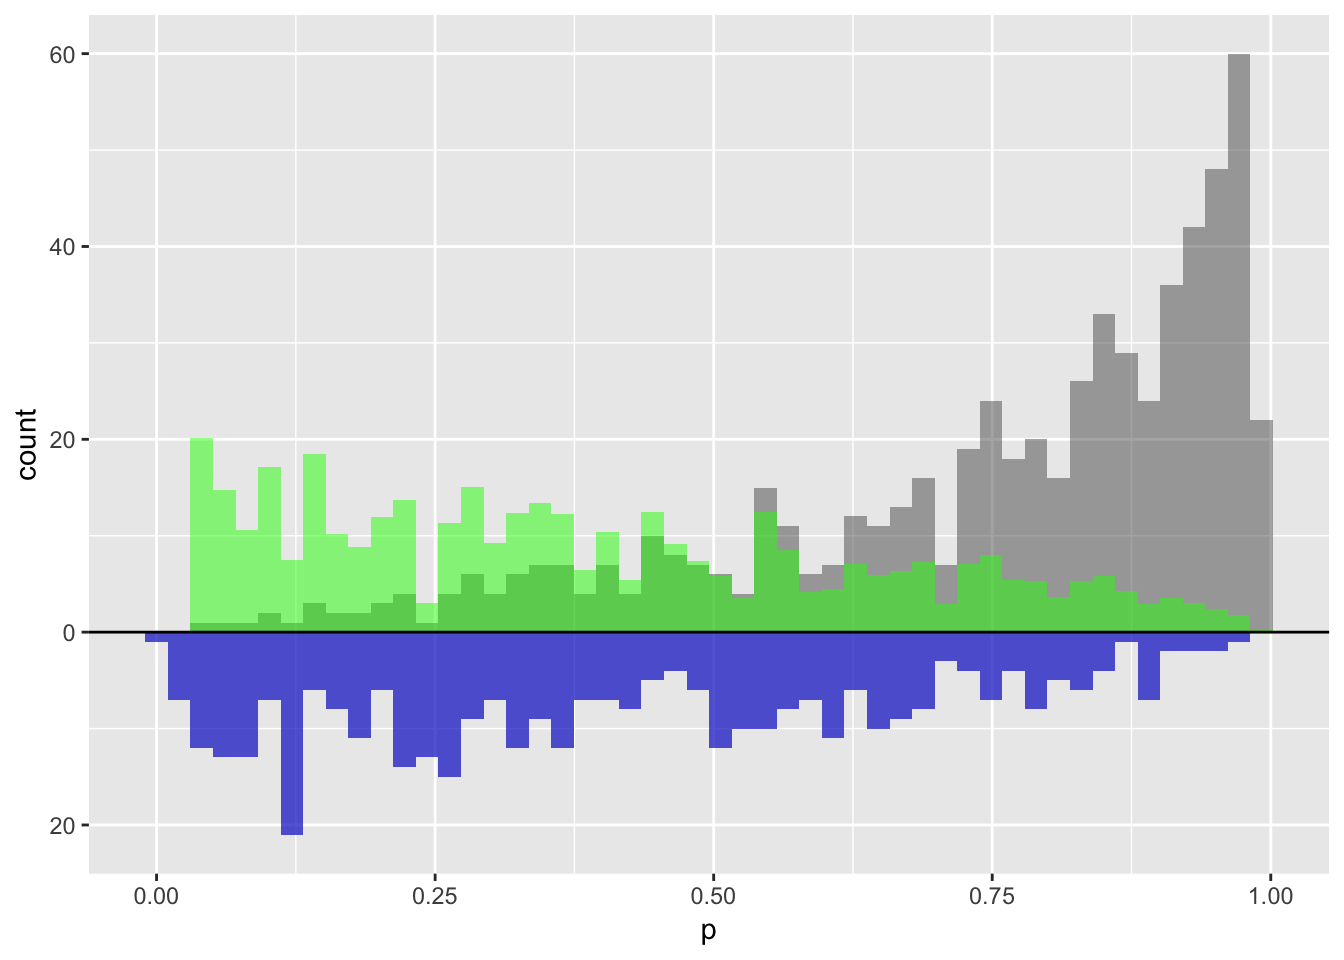
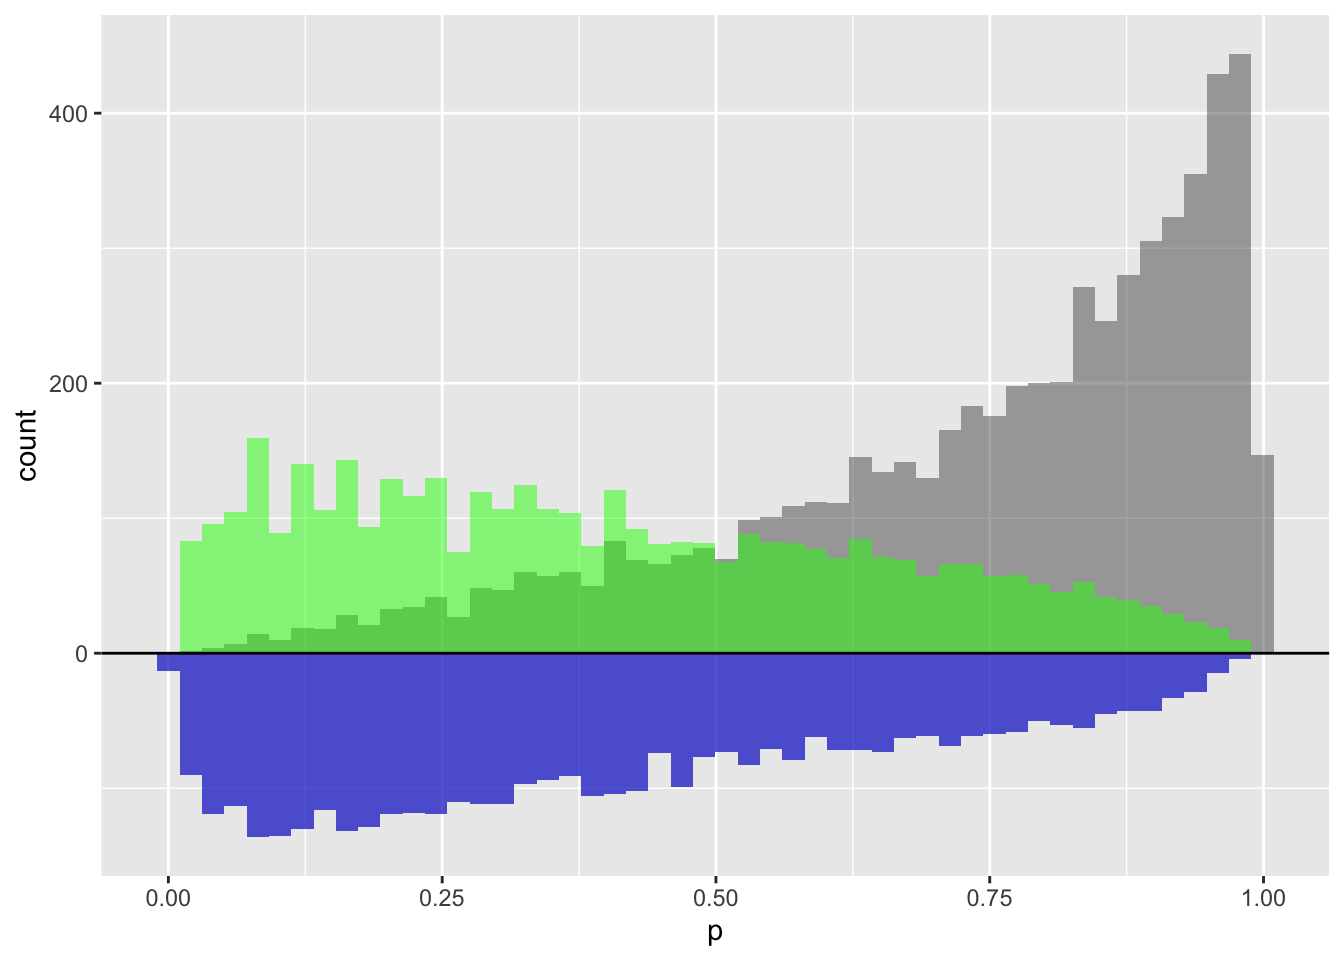
fix silly confounding mistake

diff --git a/content/post/2019-01-17-understanding-propensity-score-weighting.html b/content/post/2019-01-17-understanding-propensity-score-weighting.html
@@ -8,6 +8,7 @@ tags: ["propensity scores", "causal inference"]
 excerpt: "Come enjoy a graphical exploration of various propensity score weighting schemes."
 ---
 
+<script src="/rmarkdown-libs/header-attrs/header-attrs.js"></script>
 
 
 <div id="lets-create-a-toy-dataset" class="section level2">
@@ -15,7 +16,7 @@ excerpt: "Come enjoy a graphical exploration of various propensity score weighti
 <p>For this post, I’m going to use this generated dataset as an example. <label for="tufte-mn-" class="margin-toggle">⊕</label><input type="checkbox" id="tufte-mn-" class="margin-toggle"><span class="marginnote">Here I am using the terminology ‘treatment’ for consistency, but these methods are not confined to the medical setting. You can also think of this as an ‘exposure’. For example, you could be interested in how ‘exposing’ users to a certain UI effects an outcome, like whether they purchase a product.</span> Here, I am simulating two variables, <span class="math inline">\(x_1\)</span> and <span class="math inline">\(x_2\)</span>. These are my <em>pre-treatment characteristics</em> (we’ll define that soon!). I am then using these to create a binary <code>treatment</code> variable. This <code>treatment</code> variable depends on <code>x_1</code> and <code>x_2</code>. Finally, I have generated an <code>outcome</code> variable dependent on the <code>treatment</code>, making the treatment effect equal to 2.</p>
 <pre class="r"><code>library(tidyverse)
 set.seed(928)
-n &lt;- 1000
+n &lt;- 10000
 X &lt;- mvtnorm::rmvnorm(n,
                       mean = c(0.5, 1),
                       sigma = matrix(c(2, 1, 1, 1), ncol = 2)
@@ -25,23 +26,23 @@ dat &lt;- tibble(
   x_1 = X[, 1],
   x_2 = X[, 2],
   treatment = as.numeric(- 0.5 + 0.25 * x_1 + 0.75 * x_2 + rnorm(n, 0, 1) &gt; 0),
-  outcome = 2 * treatment + rnorm(n, 0, 1)
+  outcome = 2 * treatment + x_1 + x_2 + rnorm(n, 0, 1)
 )
 dat</code></pre>
-<pre><code>## # A tibble: 1,000 x 4
+<pre><code>## # A tibble: 10,000 × 4
 ##       x_1    x_2 treatment outcome
 ##     &lt;dbl&gt;  &lt;dbl&gt;     &lt;dbl&gt;   &lt;dbl&gt;
-##  1 -0.554  1.57          1  2.65  
-##  2 -0.154  0.949         0  0.0561
-##  3  0.138  2.42          1  1.83  
-##  4  0.668  1.36          0 -0.845 
-##  5  3.11   2.76          1  1.46  
-##  6 -0.151  0.683         0 -0.0211
-##  7  1.01  -0.414         0  0.317 
-##  8 -0.114  0.856         1  3.35  
-##  9  2.66   1.23          1  2.41  
-## 10  2.96   2.53          1  2.73  
-## # ... with 990 more rows</code></pre>
+##  1 -0.554  1.57          0   0.832
+##  2 -0.154  0.949         1   2.68 
+##  3  0.138  2.42          1   5.12 
+##  4  0.668  1.36          1   4.27 
+##  5  3.11   2.76          1   7.87 
+##  6 -0.151  0.683         0  -0.260
+##  7  1.01  -0.414         0   0.551
+##  8 -0.114  0.856         0   1.63 
+##  9  2.66   1.23          1   6.41 
+## 10  2.96   2.53          1   8.91 
+## # … with 9,990 more rows</code></pre>
 </div>
 <div id="what-are-propensity-scores-good-for" class="section level2">
 <h2>What are propensity scores good for?</h2>
@@ -55,7 +56,7 @@ dat</code></pre>
     propensity_score = glm(treatment ~ x_1 + x_2, data = dat, family = &quot;binomial&quot;) %&gt;%
       predict(type = &quot;response&quot;)
   )</code></pre>
-<p>Notice here I fit a logistic regression, predicting the <code>treatment</code> from the pre-treatment characteristics, <code>x_1</code> and <code>x_2</code> using the <code>glm()</code> function along with the <code>family = &quot;binomial&quot;</code> option. I then used the <code>predict()</code> function along with <code>type = &quot;response&quot;</code> to obtain the conditional probabilities of treatment assignment.</p>
+<p>Notice here I fit a logistic regression, predicting the <code>treatment</code> from the pre-treatment characteristics, <code>x_1</code> and <code>x_2</code> using the <code>glm()</code> function along with the <code>family = "binomial"</code> option. I then used the <code>predict()</code> function along with <code>type = "response"</code> to obtain the conditional probabilities of treatment assignment.</p>
 </div>
 <div id="what-are-we-trying-to-estimate" class="section level2">
 <h2>What are we trying to estimate?</h2>
@@ -192,13 +193,13 @@ ggplot(d) +
 <div id="estimating-the-treatment-effect" class="section level2">
 <h2>Estimating the treatment effect</h2>
 <p>Now that we have a bit of an understanding of what these weights do, we can estimate the treatment effect in each of these “pseudo-populations”. Mathematically, we can write this as follows, with the outcome for each individual defined as <span class="math inline">\(Y_i\)</span>, the treatment <span class="math inline">\(Z_i\)</span> and the weight <span class="math inline">\(w_i\)</span>.</p>
-<p><span class="math inline">\(\frac{\sum{Y_i Z_i w_i}}{\sum{Y_i w_i}} + \frac{\sum{Y_i(1-Z_i)w_i}}{\sum{(1-Z_i)w_i}}\)</span></p>
+<p><span class="math inline">\(\frac{\sum{Y_i Z_i w_i}}{\sum{Y_i w_i}} - \frac{\sum{Y_i(1-Z_i)w_i}}{\sum{(1-Z_i)w_i}}\)</span></p>
 <p>In R, we can make a function to do this.</p>
 <pre class="r"><code>treatment_effect &lt;- function(treatment, outcome, weight) {
-  (sum(treatment * outcome * weight) / sum(treatment * weight)) + (sum((1 - treatment) * outcome * weight) / sum((1 - treatment) * weight))
+  (sum(treatment * outcome * weight) / sum(treatment * weight)) - (sum((1 - treatment) * outcome * weight) / sum((1 - treatment) * weight))
 }</code></pre>
 <p>For example, to estimate the ATO for this population, we can do the following.</p>
 <pre class="r"><code>treatment_effect(dat$treatment, dat$outcome, dat$w_ato)</code></pre>
-<pre><code>## [1] 2.046207</code></pre>
+<pre><code>## [1] 2.006989</code></pre>
 <p>And we did it! Hopefully this helped to elucidate what is going on with propensity score weighting - please let me know if there are any parts that can be clarified!</p>
 </div>
